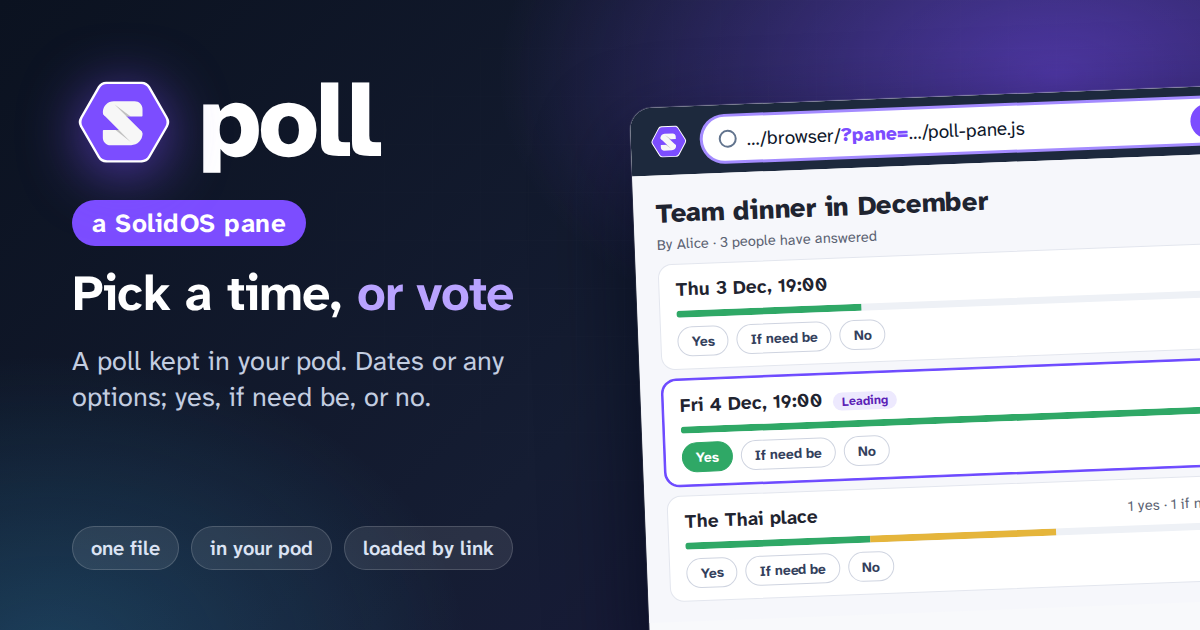
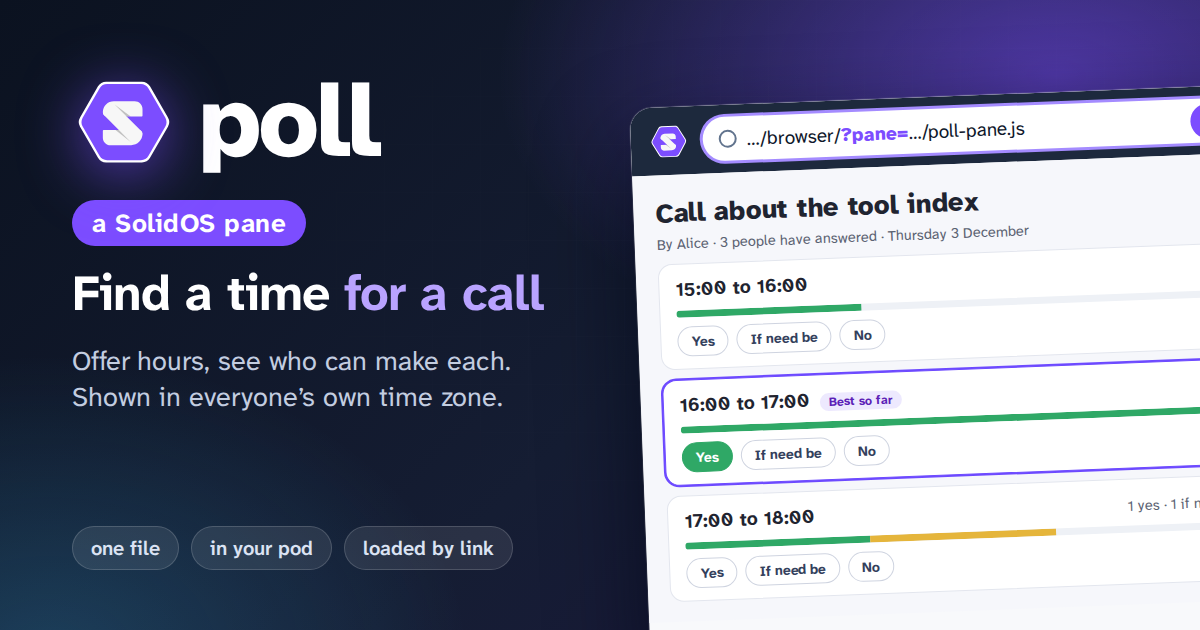
Find a time for a call: hours on a day, exact moments shown in each person's time zone

diff --git a/poll-pane.js b/poll-pane.js
@@ -1,11 +1,13 @@
-// poll-pane.js: a poll kept in a pod. Pick a time, or vote on options.
+// poll-pane.js: find a time for a call or a meeting, with a poll kept in a pod.
+// Offer hours on one or more days; people say which they can make. Other things can be voted on too.
 //
 // One file, no imports. It reads and writes the format of SolidOS's own scheduling pane
 // (http://www.w3.org/ns/pim/schedule#), so a poll made there opens here and the other way round:
 //
 //   index.ttl     <#this> a sched:SchedulableEvent ; cal:summary "Dinner" ; dc:author <WebID> ;
 //                     sched:option <#o1>, <#o2> ; sched:results <results.ttl> .
-//                 <#o1> cal:dtstart "2026-12-04T19:00:00"^^xsd:dateTime .     (a time)
+//                 <#o1> cal:dtstart "2026-12-04T14:00:00Z"^^xsd:dateTime ;    (an hour: an exact moment,
+//                       cal:dtend "2026-12-04T15:00:00Z"^^xsd:dateTime .       shown in each person's own time zone)
 //                 <#o2> rdfs:label "The Thai place" .                         (anything else)
 //
 //   results.ttl   <index.ttl#this> sched:response <#r1> .
@@ -66,6 +68,14 @@ const CSS = `
 .pol button.pol-primary { background: #6d4aff; border-color: #6d4aff; color: #fff; }
 .pol button.pol-primary:hover { background: #5b3be0; }
 .pol button.pol-quiet { border-color: transparent; color: #a12727; padding: 4px 8px; }
+.pol-day { margin: 10px 2px -2px; font-size: 14px; font-weight: 700; color: #33405c; letter-spacing: .01em; }
+.pol-day:first-child { margin-top: 0; }
+.pol-zone { margin: 14px 0 0; font-size: 14px; color: #5b6272; }
+.pol-fields label.pol-narrow { flex: 0 1 110px; }
+.pol select { font: inherit; font-size: 15px; width: 100%; padding: 8px 10px; border: 1px solid #cfd4e0; border-radius: 10px; background: #fff; color: #1f2430; }
+.pol-more { margin-top: 12px; }
+.pol-more summary { cursor: pointer; font-size: 14px; font-weight: 600; color: #4b3bd6; }
+.pol-more .pol-fields { margin-top: 10px; }
 .pol-empty { padding: 18px; border: 1px dashed #cfd4e0; border-radius: 14px; color: #5b6272; text-align: center; }
 .pol-box { margin-top: 22px; padding: 16px; background: #fafbfe; border: 1px solid #e3e6ee; border-radius: 14px; }
 .pol-box h3 { margin: 0 0 4px; font-size: 16px; }
@@ -113,15 +123,29 @@ function optionLabel (store, option, doc) {
   if (text) return text.value
   const when = store.any(option, sym(CAL + 'dtstart'), null, doc)
   if (!when) return option.value.split('#').pop()
-  return timeLabel(when.value)
+  const end = store.any(option, sym(CAL + 'dtend'), null, doc)
+  return timeLabel(when.value, end ? end.value : '')
 }
 
-function timeLabel (value) {
-  const dateOnly = /^\d{4}-\d{2}-\d{2}$/.test(value)
-  const date = new Date(dateOnly ? value + 'T12:00:00' : value)
+const dateOnly = (value) => /^\d{4}-\d{2}-\d{2}$/.test(value)
+const moment = (value) => new Date(dateOnly(value) ? value + 'T12:00:00' : value)
+const clock = (date) => date.toLocaleTimeString(undefined, { hour: '2-digit', minute: '2-digit' })
+// The day a time falls on, for the person looking: "Fri 4 Dec 2026".
+function dayLabel (value) {
+  const date = moment(value)
+  return isNaN(date) ? '' : date.toLocaleDateString(undefined, { weekday: 'long', day: 'numeric', month: 'long', year: 'numeric' })
+}
+// The time itself, in the viewer's own time zone: "14:00 to 15:00", or "14:00", or "All day".
+function hourLabel (value, end) {
+  const date = moment(value)
   if (isNaN(date)) return value
-  const day = date.toLocaleDateString(undefined, { weekday: 'short', day: 'numeric', month: 'short', year: 'numeric' })
-  return dateOnly ? day : day + ', ' + date.toLocaleTimeString(undefined, { hour: '2-digit', minute: '2-digit' })
+  if (dateOnly(value)) return 'All day'
+  const until = end ? moment(end) : null
+  return clock(date) + (until && !isNaN(until) ? ' to ' + clock(until) : '')
+}
+function timeLabel (value, end) {
+  const day = dayLabel(value)
+  return day ? day + ', ' + hourLabel(value, end) : value
 }
 
 function personName (store, person) {
@@ -137,9 +161,20 @@ function readPoll (store, subject, resultsDoc) {
   const doc = subject.doc()
   const options = store.each(subject, sym(SCHED + 'option'), null, doc).map(node => {
     const when = store.any(node, sym(CAL + 'dtstart'), null, doc)
-    return { node, when: when ? when.value : '', label: optionLabel(store, node, doc), answers: [] }
+    const end = store.any(node, sym(CAL + 'dtend'), null, doc)
+    const text = store.any(node, sym(RDFS_LABEL), null, doc)
+    const timed = !!when && !isNaN(moment(when.value))
+    return {
+      node,
+      when: when ? when.value : '',
+      at: timed ? moment(when.value).getTime() : null,
+      day: timed ? dayLabel(when.value) : '',
+      short: timed ? hourLabel(when.value, end ? end.value : '') + (text ? ' · ' + text.value : '') : '',
+      label: optionLabel(store, node, doc),
+      answers: []
+    }
   })
-  options.sort((a, b) => (a.when && b.when) ? a.when.localeCompare(b.when) : (a.when ? -1 : b.when ? 1 : a.node.value.localeCompare(b.node.value, undefined, { numeric: true })))
+  options.sort((a, b) => (a.at !== null && b.at !== null) ? a.at - b.at : (a.at !== null ? -1 : b.at !== null ? 1 : a.node.value.localeCompare(b.node.value, undefined, { numeric: true })))
   const byNode = new Map(options.map(o => [o.node.value, o]))
   const byTime = new Map(options.filter(o => o.when).map(o => [o.when, o]))
   const people = new Map()
@@ -200,7 +235,7 @@ const pane = {
   audience: [],
 
   label (subject, context) {
-    try { return isPoll(context.session.store, subject) ? 'Poll' : null } catch { return null }
+    try { return isPoll(context.session.store, subject) ? 'Find a time' : null } catch { return null }
   },
 
   shouldGetFocus (subject, context) {
@@ -246,6 +281,7 @@ const pane = {
     const notes = root.appendChild(el(dom, 'p', 'pol-notes'))
     const status = root.appendChild(el(dom, 'div', 'pol-status'))
     status.setAttribute('role', 'status')
+    const zoneLine = root.appendChild(el(dom, 'p', 'pol-zone'))
     const list = root.appendChild(el(dom, 'ul', 'pol-list'))
     const owner = root.appendChild(el(dom, 'div'))
     const foot = root.appendChild(el(dom, 'div', 'pol-foot'))
@@ -260,6 +296,7 @@ const pane = {
     const mine = () => { const who = me(); const author = store.any(subject, sym(DC + 'author'), null, doc); return !!who && !!author && author.value === who.value }
     const literal = (value, datatype) => { const rdf = rdflib(); return datatype ? rdf.literal(value, sym(XSD + datatype)) : rdf.literal(value) }
     const st = (s, p, o, g) => rdflib().st(s, p, o, g)
+    const zone = () => { try { return Intl.DateTimeFormat().resolvedOptions().timeZone || 'local time' } catch { return 'local time' } }
 
     async function change (deletions, insertions, done) {
       if (busy) return
@@ -308,36 +345,63 @@ const pane = {
     function ownerTools () {
       owner.replaceChildren()
       if (!mine()) return
+      const taken = () => new Set(store.each(subject, sym(SCHED + 'option'), null, doc).map(o => o.value))
+      const fresh = (used) => { let n = used.size + 1; while (used.has(doc.value + '#o' + n)) n++; used.add(doc.value + '#o' + n); return sym(doc.value + '#o' + n) }
       const add = owner.appendChild(el(dom, 'form', 'pol-box pol-add'))
-      add.appendChild(el(dom, 'h3', '', 'Add an option'))
-      add.appendChild(el(dom, 'p', 'pol-hint', 'A date and time, or anything else to vote on. Fill in one of the two.'))
+      add.appendChild(el(dom, 'h3', '', 'Offer times'))
+      add.appendChild(el(dom, 'p', 'pol-hint', 'Pick a day and a range of hours. Each hour becomes one choice. Times are in your time zone (' + zone() + '); everyone else sees them in theirs.'))
       const fields = add.appendChild(el(dom, 'div', 'pol-fields'))
-      const whenLabel = fields.appendChild(el(dom, 'label', '', 'Date and time'))
-      const when = whenLabel.appendChild(el(dom, 'input'))
-      when.type = 'datetime-local'
-      const textLabel = fields.appendChild(el(dom, 'label', '', 'Or some text'))
-      const text = textLabel.appendChild(el(dom, 'input'))
-      text.type = 'text'
-      text.maxLength = 120
-      text.placeholder = 'The Thai place'
-      const addButton = fields.appendChild(el(dom, 'button', 'pol-primary', 'Add'))
+      const day = fields.appendChild(el(dom, 'label', '', 'Day')).appendChild(el(dom, 'input'))
+      day.type = 'date'
+      day.required = true
+      const hours = (labelText, chosen) => {
+        const select = fields.appendChild(el(dom, 'label', 'pol-narrow', labelText)).appendChild(el(dom, 'select'))
+        for (let h = 0; h <= 24; h++) { const o = select.appendChild(el(dom, 'option', '', String(h).padStart(2, '0') + ':00')); o.value = String(h); if (h === chosen) o.selected = true }
+        return select
+      }
+      const from = hours('From', 9)
+      const to = hours('To', 12)
+      const addButton = fields.appendChild(el(dom, 'button', 'pol-primary', 'Add times'))
       addButton.type = 'submit'
       add.addEventListener('submit', (event) => {
         event.preventDefault()
+        const first = +from.value
+        const last = +to.value
+        if (!day.value) { say('Pick a day.', 'bad'); return }
+        if (last <= first) { say('"To" must be later than "From".', 'bad'); return }
+        const have = new Set(store.each(subject, sym(SCHED + 'option'), null, doc).map(o => store.any(o, sym(CAL + 'dtstart'), null, doc)).filter(Boolean).map(t => moment(t.value).getTime()))
+        const used = taken()
+        const insertions = []
+        const [y, m, d] = day.value.split('-').map(Number)
+        for (let h = first; h < last; h++) {
+          const start = new Date(y, m - 1, d, h, 0, 0)
+          if (have.has(start.getTime())) continue
+          const option = fresh(used)
+          insertions.push(st(subject, sym(SCHED + 'option'), option, doc))
+          insertions.push(st(option, sym(CAL + 'dtstart'), literal(start.toISOString().replace('.000Z', 'Z'), 'dateTime'), doc))
+          insertions.push(st(option, sym(CAL + 'dtend'), literal(new Date(y, m - 1, d, h + 1, 0, 0).toISOString().replace('.000Z', 'Z'), 'dateTime'), doc))
+        }
+        if (!insertions.length) { say('Those hours are already offered.'); return }
+        change([], insertions, (insertions.length / 3 === 1 ? '1 time' : insertions.length / 3 + ' times') + ' added.')
+      })
+      const more = add.appendChild(el(dom, 'details', 'pol-more'))
+      more.appendChild(el(dom, 'summary', '', 'Or add something else to vote on'))
+      const moreFields = more.appendChild(el(dom, 'div', 'pol-fields'))
+      const text = moreFields.appendChild(el(dom, 'label', '', 'A choice that is not a time')).appendChild(el(dom, 'input'))
+      text.type = 'text'
+      text.maxLength = 120
+      text.placeholder = 'Video call, or in person'
+      const textButton = moreFields.appendChild(el(dom, 'button', '', 'Add'))
+      textButton.type = 'button'
+      textButton.addEventListener('click', () => {
         const label = text.value.trim()
-        if (!when.value && !label) { say('Give a date and time, or some text.', 'bad'); return }
-        const taken = new Set(store.each(subject, sym(SCHED + 'option'), null, doc).map(o => o.value))
-        let n = taken.size + 1
-        while (taken.has(doc.value + '#o' + n)) n++
-        const option = sym(doc.value + '#o' + n)
-        const insertions = [st(subject, sym(SCHED + 'option'), option, doc)]
-        if (when.value) insertions.push(st(option, sym(CAL + 'dtstart'), literal(when.value.length === 16 ? when.value + ':00' : when.value, 'dateTime'), doc))
-        if (label) insertions.push(st(option, sym(RDFS_LABEL), literal(label), doc))
-        change([], insertions, 'Option added.')
+        if (!label) { say('Type the choice first.', 'bad'); return }
+        const option = fresh(taken())
+        change([], [st(subject, sym(SCHED + 'option'), option, doc), st(option, sym(RDFS_LABEL), literal(label), doc)], 'Choice added.')
       })
 
       const edit = owner.appendChild(el(dom, 'form', 'pol-box pol-edit'))
-      edit.appendChild(el(dom, 'h3', '', 'About this poll'))
+      edit.appendChild(el(dom, 'h3', '', 'About this meeting'))
       const editFields = edit.appendChild(el(dom, 'div', 'pol-fields'))
       const field = (labelText, term, multi) => {
         const label = editFields.appendChild(el(dom, 'label', '', labelText))
@@ -348,7 +412,7 @@ const pane = {
         input.value = now ? now.value : ''
         return { term, input }
       }
-      const inputs = [field('Title', 'summary'), field('Where', 'location'), field('Notes', 'comment', true)]
+      const inputs = [field('What it is for', 'summary'), field('Where, or the call link', 'location'), field('Notes', 'comment', true)]
       const saveButton = editFields.appendChild(el(dom, 'button', 'pol-primary', 'Save'))
       saveButton.type = 'submit'
       edit.addEventListener('submit', (event) => {
@@ -371,7 +435,7 @@ const pane = {
       const poll = readPoll(store, subject, resultsDoc)
       const who = me()
       const text = (term) => { const value = store.any(subject, sym(CAL + term), null, doc); return value ? value.value : '' }
-      title.textContent = text('summary') || 'Poll'
+      title.textContent = text('summary') || 'Find a time'
       const author = store.any(subject, sym(DC + 'author'), null, doc)
       const count = poll.people.length
       meta.textContent = (author ? 'By ' + personName(store, author) + ' · ' : '') + (count === 1 ? '1 person has answered' : count + ' people have answered')
@@ -383,14 +447,19 @@ const pane = {
       list.replaceChildren()
       const score = (option) => option.answers.filter(a => a.answer === 'Yes').length * 2 + option.answers.filter(a => a.answer === 'Maybe').length
       const best = Math.max(0, ...poll.options.map(score))
+      let lastDay = null
       for (const option of poll.options) {
+        if (option.day !== lastDay) {
+          lastDay = option.day
+          list.appendChild(el(dom, 'li', 'pol-day', option.day || 'Also to decide'))
+        }
         const yes = option.answers.filter(a => a.answer === 'Yes')
         const maybe = option.answers.filter(a => a.answer === 'Maybe')
         const item = list.appendChild(el(dom, 'li', 'pol-option' + (best > 0 && score(option) === best ? ' pol-lead' : '')))
         item.dataset.option = option.node.value
         const head = item.appendChild(el(dom, 'div', 'pol-head'))
-        head.appendChild(el(dom, 'span', 'pol-name', option.label))
-        if (best > 0 && score(option) === best) head.appendChild(el(dom, 'span', 'pol-tag', 'Leading'))
+        head.appendChild(el(dom, 'span', 'pol-name', option.short || option.label))
+        if (best > 0 && score(option) === best) head.appendChild(el(dom, 'span', 'pol-tag', 'Best so far'))
         head.appendChild(el(dom, 'span', 'pol-count', yes.length + ' yes' + (maybe.length ? ' · ' + maybe.length + ' if need be' : '')))
         const bar = item.appendChild(el(dom, 'div', 'pol-bar'))
         const total = Math.max(count, 1)
@@ -409,7 +478,7 @@ const pane = {
             button.addEventListener('click', () => answer(option, value))
           }
           if (mine()) {
-            const remove = choose.appendChild(el(dom, 'button', 'pol-quiet', 'Remove option'))
+            const remove = choose.appendChild(el(dom, 'button', 'pol-quiet', 'Remove'))
             remove.type = 'button'
             let armed = false
             remove.addEventListener('click', () => {
@@ -419,8 +488,10 @@ const pane = {
           }
         }
       }
-      if (!poll.options.length) list.appendChild(el(dom, 'li', 'pol-empty', mine() ? 'No options yet. Add the first one below.' : 'This poll has no options yet.'))
-      if (!who && !status.textContent) say('Log in to answer.')
+      if (!poll.options.length) list.appendChild(el(dom, 'li', 'pol-empty', mine() ? 'No times offered yet. Add some below.' : 'No times have been offered yet.'))
+      zoneLine.textContent = poll.options.some(o => o.at !== null) ? 'Times are shown in your time zone: ' + zone() + '.' : ''
+      zoneLine.hidden = !zoneLine.textContent
+      if (!who && !status.textContent) say('Log in to say when you can make it.')
       ownerTools()
 
       foot.replaceChildren()

diff --git a/index.html b/index.html
@@ -4,17 +4,17 @@
 <meta charset="utf-8">
 <meta name="viewport" content="width=device-width, initial-scale=1">
 <title>poll</title>
-<meta name="description" content="A SolidOS pane for a poll kept in your pod: pick a time, or vote on options. One file, loaded by link.">
+<meta name="description" content="A SolidOS pane that finds a time for a call or a meeting: offer hours, people say which they can make. Kept in your pod. One file, loaded by link.">
 <link rel="canonical" href="https://solid-panes.github.io/poll/">
 <meta property="og:type" content="website">
 <meta property="og:site_name" content="solid-panes">
-<meta property="og:title" content="Poll pane · pick a time, or vote">
-<meta property="og:description" content="A SolidOS pane for a poll kept in your pod: pick a time, or vote on options. One file, loaded by link.">
+<meta property="og:title" content="Poll pane · find a time for a call">
+<meta property="og:description" content="A SolidOS pane that finds a time for a call or a meeting: offer hours, people say which they can make. Kept in your pod. One file, loaded by link.">
 <meta property="og:url" content="https://solid-panes.github.io/poll/">
 <meta property="og:image" content="https://solid-panes.github.io/poll/og.png">
 <meta property="og:image:width" content="1200">
 <meta property="og:image:height" content="630">
-<meta property="og:image:alt" content="The poll pane: a sample poll for a team dinner, with three evenings and two places, the leading evening outlined, shown in SolidOS">
+<meta property="og:image:alt" content="The poll pane: hours offered for a call on two days, with who can make each and the best hour outlined, shown in SolidOS">
 <meta name="twitter:card" content="summary_large_image">
 <meta name="twitter:image" content="https://solid-panes.github.io/poll/og.png">
 <style>
@@ -30,9 +30,9 @@
 <body>
 <main>
   <h1>poll</h1>
-  <p>A pane for the SolidOS data browser that keeps a poll in your pod. Options can be dates and times, or anything else to vote on. People answer Yes, If need be or No, and the leading option is marked. It is one module, loaded by link, and reads and writes the format of SolidOS's own scheduling pane.</p>
-  <a class="go" href="https://solidos.org/docs/browser/?pane=https%3A%2F%2Fsolid-panes.github.io%2Fpoll%2Fpoll-pane.js&amp;uri=https%3A%2F%2Fsolid-panes.github.io%2Fpoll%2Fsamples%2Fdinner%2Findex.ttl%23this">Try it</a>
-  <p>The data browser asks before it adds a pane from a site it has not seen. Allow it, and a sample poll opens. The sample is read-only: to answer, make a poll of your own with <em>New Poll</em> in a folder's Add menu.</p>
+  <p>A pane for the SolidOS data browser that finds a time for a call or a meeting. Offer hours on one or more days; people answer Yes, If need be or No for each, and the best hour so far is marked. Every hour is an exact moment, shown to each person in their own time zone. It is kept in your pod, is one module loaded by link, and uses the format of SolidOS's own scheduling pane.</p>
+  <a class="go" href="https://solidos.org/docs/browser/?pane=https%3A%2F%2Fsolid-panes.github.io%2Fpoll%2Fpoll-pane.js&amp;uri=https%3A%2F%2Fsolid-panes.github.io%2Fpoll%2Fsamples%2Fcall%2Findex.ttl%23this">Try it</a>
+  <p>The data browser asks before it adds a pane from a site it has not seen. Allow it, and a sample opens. The sample is read-only: to answer, make one of your own with <em>New Poll</em> in a folder's Add menu.</p>
   <p>The pane: <code>https://solid-panes.github.io/poll/poll-pane.js</code></p>
   <p>Source and details: <a href="https://github.com/solid-panes/poll">github.com/solid-panes/poll</a></p>
 </main>

diff --git a/tools/og.html b/tools/og.html
@@ -63,8 +63,8 @@
   <div class="left">
     <div class="brand"><img src="og-emblem.svg" alt=""><b>poll</b></div>
     <div class="pill">a SolidOS pane</div>
-    <h1>Pick a time, <em>or vote</em></h1>
-    <p>A poll kept in your pod. Dates or any options; yes, if need be, or no.</p>
+    <h1>Find a time <em>for a call</em></h1>
+    <p>Offer hours, see who can make each. Shown in everyone’s own time zone.</p>
   </div>
   <div class="tags"><span>one file</span><span>in your pod</span><span>loaded by link</span></div>
 
@@ -74,11 +74,11 @@
       <div class="addr"><i></i><span>…/browser/<b>?pane=</b>…/poll-pane.js</span><u>Go</u></div>
     </div>
     <div class="pl">
-      <h2>Team dinner in December</h2>
-      <div class="m">By Alice · 3 people have answered</div>
-      <div class="op"><div class="h"><b>Thu 3 Dec, 19:00</b><u>1 yes</u></div><div class="b"><s style="width:33%"></s></div><div class="c"><span>Yes</span><span>If need be</span><span>No</span></div></div>
-      <div class="op lead"><div class="h"><b>Fri 4 Dec, 19:00</b><i>Leading</i><u>3 yes</u></div><div class="b"><s style="width:100%"></s></div><div class="c"><span class="y">Yes</span><span>If need be</span><span>No</span></div></div>
-      <div class="op"><div class="h"><b>The Thai place</b><u>1 yes · 1 if need be</u></div><div class="b"><s style="width:33%"></s><s style="width:33%"></s></div><div class="c"><span>Yes</span><span>If need be</span><span>No</span></div></div>
+      <h2>Call about the tool index</h2>
+      <div class="m">By Alice · 3 people have answered · Thursday 3 December</div>
+      <div class="op"><div class="h"><b>15:00 to 16:00</b><u>1 yes</u></div><div class="b"><s style="width:33%"></s></div><div class="c"><span>Yes</span><span>If need be</span><span>No</span></div></div>
+      <div class="op lead"><div class="h"><b>16:00 to 17:00</b><i>Best so far</i><u>3 yes</u></div><div class="b"><s style="width:100%"></s></div><div class="c"><span class="y">Yes</span><span>If need be</span><span>No</span></div></div>
+      <div class="op"><div class="h"><b>17:00 to 18:00</b><u>1 yes · 1 if need be</u></div><div class="b"><s style="width:33%"></s><s style="width:33%"></s></div><div class="c"><span>Yes</span><span>If need be</span><span>No</span></div></div>
     </div>
   </div>
 </body>

diff --git a/README.md b/README.md
@@ -1,19 +1,21 @@
 # poll
 
-A dynamic SolidOS pane for a poll kept in a pod: pick a time, or vote on options.
+A dynamic SolidOS pane that finds a time for a call or a meeting. The poll is kept in a pod.
 
 Loads at runtime by link, with no build or release.
 
-**Try it:** [open a sample poll](https://solidos.org/docs/browser/?pane=https%3A%2F%2Fsolid-panes.github.io%2Fpoll%2Fpoll-pane.js&uri=https%3A%2F%2Fsolid-panes.github.io%2Fpoll%2Fsamples%2Fdinner%2Findex.ttl%23this)
+**Try it:** [open a sample poll](https://solidos.org/docs/browser/?pane=https%3A%2F%2Fsolid-panes.github.io%2Fpoll%2Fpoll-pane.js&uri=https%3A%2F%2Fsolid-panes.github.io%2Fpoll%2Fsamples%2Fcall%2Findex.ttl%23this)
 
 The data browser asks before it adds a pane from a site it has not seen. Allow it, and the poll opens. The sample is read-only; answers are saved only on a pod.
 
 ## What it does
 
-- Options are dates and times, or any text, in the same poll.
-- Each person answers **Yes**, **If need be** or **No**. Pressing the same answer again clears it.
-- Each option shows its count, a bar, and who said yes. The leading option is outlined.
-- With the pane loaded, a folder's Add menu has **New Poll**. Its maker can add and remove options and edit the title, place and notes.
+- The person arranging it picks a day and a range of hours. Each hour becomes one choice.
+- Every hour is an exact moment. Each person sees it in their own time zone, and the pane says which zone that is.
+- Each person answers **Yes**, **If need be** or **No** for each hour. Pressing the same answer again clears it.
+- Each hour shows its count, a bar, and who can make it. The best hour so far is outlined.
+- Other things can be decided in the same poll: add a choice that is not a time.
+- With the pane loaded, a folder's Add menu has **New Poll**. Its maker can add and remove times and edit what it is for, where, and notes.
 - One column on a phone; no sideways scrolling at 400 px.
 
 ## What it writes
@@ -34,10 +36,10 @@ The format is the one SolidOS's scheduling pane uses (`http://www.w3.org/ns/pim/
 
 ```turtle
 # index.ttl
-<#this> a sched:SchedulableEvent ; cal:summary "Dinner" ; dc:author <WebID> ;
+<#this> a sched:SchedulableEvent ; cal:summary "Call" ; dc:author <WebID> ;
     sched:option <#o1>, <#o2> ; sched:results <results.ttl> .
-<#o1> cal:dtstart "2026-12-04T19:00:00"^^xsd:dateTime .
-<#o2> rdfs:label "The Thai place" .
+<#o1> cal:dtstart "2026-12-04T14:00:00Z"^^xsd:dateTime ; cal:dtend "2026-12-04T15:00:00Z"^^xsd:dateTime .
+<#o2> rdfs:label "Record the call" .
 
 # results.ttl
 <index.ttl#this> sched:response <#r1> .
@@ -45,7 +47,7 @@ The format is the one SolidOS's scheduling pane uses (`http://www.w3.org/ns/pim/
 <#r1-a> sched:option <index.ttl#o1> ; sched:availabilty sched:Yes .
 ```
 
-`availabilty` is the vocabulary's own spelling. Two things are added to what SolidOS writes: an option may have a text label in place of a time, and an answer links to its option with `sched:option`. Answers that only repeat the option's `cal:dtstart`, as SolidOS's pane writes them, are read too.
+`availabilty` is the vocabulary's own spelling. Three things are added to what SolidOS writes: an hour has an end (`cal:dtend`) and is written as an exact moment in UTC; an option may have a text label in place of a time; and an answer links to its option with `sched:option`. Answers that only repeat the option's `cal:dtstart`, as SolidOS's pane writes them, are read too.
 
 ## Load it
 
@@ -71,7 +73,7 @@ node tests/run.mjs
 ```
 
 They drive a real browser (Chromium) against a local test pod: make a poll, add options, answer, change, clear, edit,
-reload, then read the sample poll logged out at 1300 and 400 px. They need a local
+reload, then read the sample logged out at 1300 and 400 px. They need a local
 [JavaScript Solid Server](https://github.com/JavaScriptSolidServer/JavaScriptSolidServer) pod that serves the data
 browser ([mashlib/dynamic](https://github.com/mashlib/dynamic)) and this folder from its public folder, and
 `tests/local.json`, copied from `tests/local.example.json` and filled in. It is not committed.
